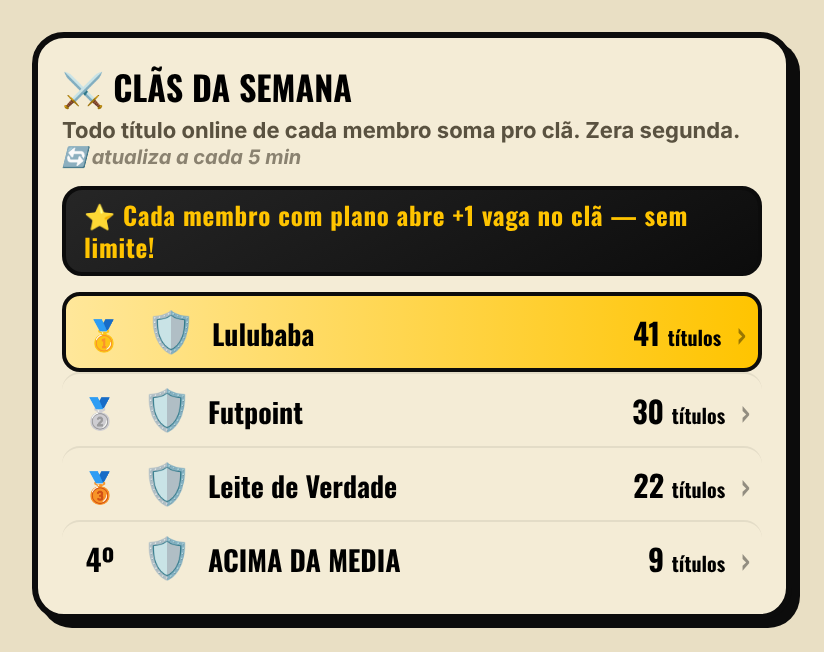
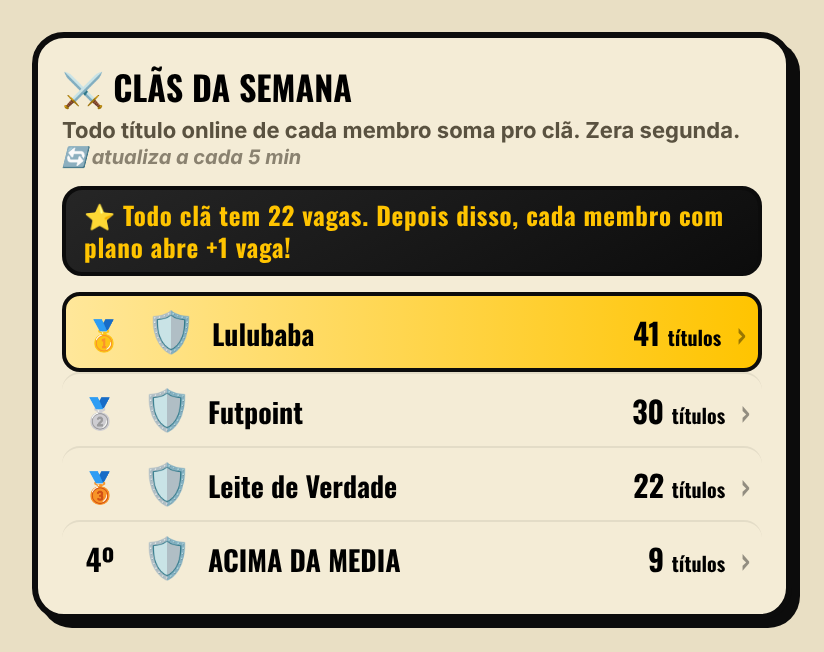
Clãs da semana: texto 'Todo clã tem 22 vagas. Depois disso, cada membro com plano abre +1 vaga' (sem falar em limite) + novidade igual
Claude-Session: https://claude.ai/code/session_018Ap1zPCMVL9XeZJN3u93ZA

Changed region(s): [[0.091, 0.3067, 0.8799, 0.3988]]

diff --git a/src/escalacao/novidades.ts b/src/escalacao/novidades.ts
@@ -34,7 +34,7 @@ import { getLang } from './lang'
 
 // ⚠ SEMPRE em ordem: a mais NOVA em cima.
 export const NOVIDADES: Novidade[] = [
-  { data: '2026-11-02', emoji: '⭐', titulo: 'Mais vagas no clã', texto: 'Cada membro com plano abre +1 vaga no clã, sem limite. Clã com 6 de plano vai de 22 pra 28 vagas — e a vaga nova é de qualquer um. (Clãs)', en: { titulo: 'More clan slots', texto: 'Each member with a plan opens +1 clan slot, no cap. A clan with 6 plan members goes from 22 to 28 slots — and the new slot is open to anyone. (Clans)' } },
+  { data: '2026-11-02', emoji: '⭐', titulo: 'Mais vagas no clã', texto: 'Todo clã tem 22 vagas. Depois disso, cada membro com plano abre +1 vaga: clã com 6 de plano vai pra 28 — e a vaga nova é de qualquer um. (Clãs)', en: { titulo: 'More clan slots', texto: 'Every clan has 22 slots. After that, each member with a plan opens +1: a clan with 6 plan members goes to 28 — and the new slot is open to anyone. (Clans)' } },
   { data: '2026-11-02', emoji: '🥇', titulo: 'Medalha do clã da semana', texto: 'O top 3 de clãs da semana ganha 🥇🥈🥉 na pílula do clã por 30 dias — todo membro carrega, e o presidente fica com a coroa dourada acesa. As moedas continuam. (Clãs)', en: { titulo: 'Clan of the week medal', texto: 'The top 3 clans of the week get 🥇🥈🥉 on the clan badge for 30 days — every member wears it, and the president gets a glowing gold crown. The coins stay. (Clans)' } },
   { data: '2026-11-02', emoji: '🖋', titulo: 'Clubes batizados nas salas', texto: 'Os adversários das salas agora são os clubes de batismo e fundador, sorteados a cada partida — na liga, nas copas e na Champions. Cada sala vem com uma turma diferente. (Online)', en: { titulo: 'Named clubs in the rooms', texto: 'Room opponents are now the named (batismo and founder) clubs, drawn at random every match — in the league, the cups and the Champions. Every room brings a different crowd. (Online)' } },
   { data: '2026-10-31', emoji: '🏳', titulo: 'Leilão de Seleções e Por década', texto: 'Ao criar sala, além de Jogador e Clubes agora tem 🏳 Seleções ("Ataque da Argentina") e a época: todas misturadas ou 🕰 por década ("Meio do Milan · anos 90"). Em teste. (Online)', en: { titulo: 'Nations auction and By decade', texto: 'When creating a room, besides Player and Clubs there is now 🏳 Nations ("Attack of Argentina") and the era: all mixed or 🕰 by decade ("Midfield of Milan · the \'90s"). In testing. (Online)' } },

diff --git a/src/escalacao/vitrine-salas.tsx b/src/escalacao/vitrine-salas.tsx
@@ -56,7 +56,7 @@ export function RankingClasCaixa() {
     <Caixa cincoMin titulo={tr('⚔ Clãs da semana', '⚔ Clans of the week')} sub={tr('Todo título online de cada membro soma pro clã. Zera segunda.', 'Every member’s online title adds to the clan. Resets Monday.')}>
       {/* ⭐ 02/11 (Diego: "no ranking da semana coloque algum texto dourado sobre isso de usuário com plano dobra as vagas") */}
       <p style={{ ...OSW, margin: '0 0 8px', fontSize: 12.5, letterSpacing: '.03em', color: GOLD, background: 'linear-gradient(150deg,#262626,#0c0c0c)', border: `2px solid ${INK}`, borderRadius: 10, padding: '5px 9px', lineHeight: 1.25 }}>
-        ⭐ {tr('Cada membro com plano abre +1 vaga no clã — sem limite!', 'Each member with a plan opens +1 clan slot — no cap!')}
+        ⭐ {tr('Todo clã tem 22 vagas. Depois disso, cada membro com plano abre +1 vaga!', 'Every clan has 22 slots. After that, each member with a plan opens +1 slot!')}
       </p>
       {l.length === 0 && <div style={{ textAlign: 'center', padding: '8px 4px', border: `2px dashed ${INK}`, borderRadius: 10, background: '#fff' }}>
         <p style={{ ...OSW, margin: 0, fontSize: 15 }}>⚔ {tr('Nenhum clã ainda', 'No clans yet')}</p>
